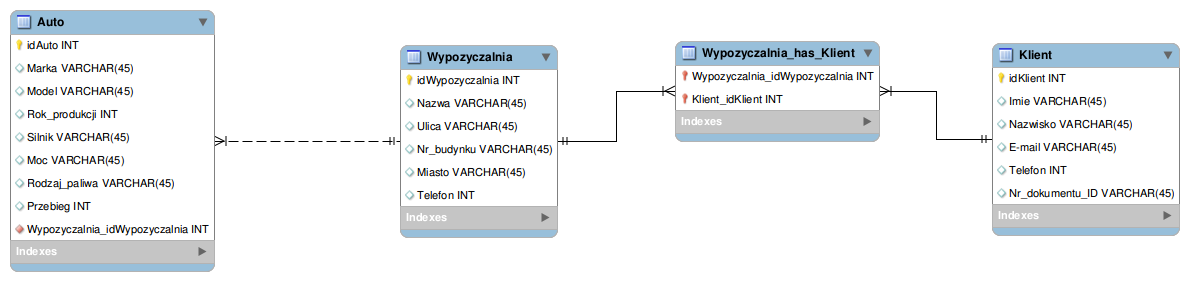
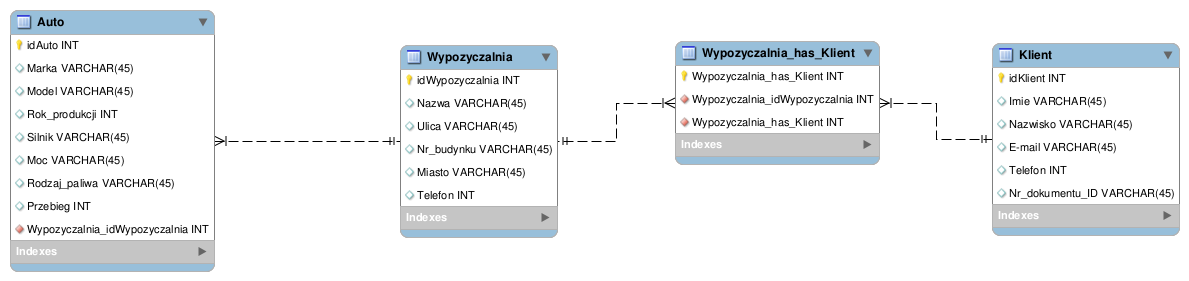
Poprawiony model i kontroler z widokami dla tabeli pośredniczącej

diff --git a/lab4/Wypozyczalnia_yii/advanced/frontend/controllers/WypozyczalniaHasKlientController.php b/lab4/Wypozyczalnia_yii/advanced/frontend/controllers/WypozyczalniaHasKlientController.php
@@ -13,6 +13,7 @@ use yii\filters\VerbFilter;
 
 use yii\helpers\ArrayHelper;
 
+
 /**
  * WypozyczalniaHasKlientController implements the CRUD actions for WypozyczalniaHasKlient model.
  */
@@ -50,14 +51,13 @@ class WypozyczalniaHasKlientController extends Controller
 
     /**
      * Displays a single WypozyczalniaHasKlient model.
-     * @param integer $idWypozyczalnia
-     * @param integer $idKlient
+     * @param integer $id
      * @return mixed
      */
-    public function actionView($idWypozyczalnia, $idKlient)
+    public function actionView($id)
     {
         return $this->render('view', [
-            'model' => $this->findModel($idWypozyczalnia, $idKlient),
+            'model' => $this->findModel($id),
         ]);
     }
 
@@ -70,7 +70,7 @@ class WypozyczalniaHasKlientController extends Controller
     {
         $model = new WypozyczalniaHasKlient();
         
-        $wypozyczalnie = Wypozyczalnia::find()
+         $wypozyczalnie = Wypozyczalnia::find()
                 ->orderBy('Nazwa')
                 ->all();
         
@@ -79,12 +79,11 @@ class WypozyczalniaHasKlientController extends Controller
                 ->all();
         
         $wypozyczalnie = ArrayHelper::map($wypozyczalnie, 'idWypozyczalnia', 'Nazwa');
-        $klienci = ArrayHelper::map($klienci, 'idKlient', 'Imie');
+        $klienci = ArrayHelper::map($klienci, 'idKlient', 'Imie', 'Nazwisko');
 
         if ($model->load(Yii::$app->request->post()) && $model->save()) {
-            return $this->redirect(['view', 'idWypozyczalnia' => $model->idWypozyczalnia, 'idKlient' => $model->idKlient]);
+            return $this->redirect(['view', 'id' => $model->idWypozyczalnia_has_klient]);
         } else {
-            
             return $this->render('create', [
                 'model' => $model,
                 'wypozyczalnie' => $wypozyczalnie,
@@ -96,13 +95,12 @@ class WypozyczalniaHasKlientController extends Controller
     /**
      * Updates an existing WypozyczalniaHasKlient model.
      * If update is successful, the browser will be redirected to the 'view' page.
-     * @param integer $idWypozyczalnia
-     * @param integer $idKlient
+     * @param integer $id
      * @return mixed
      */
-    public function actionUpdate($idWypozyczalnia, $idKlient)
+    public function actionUpdate($id)
     {
-        $model = $this->findModel($idWypozyczalnia, $idKlient);
+        $model = $this->findModel($id);
         
         $wypozyczalnie = Wypozyczalnia::find()
                 ->orderBy('Nazwa')
@@ -115,8 +113,9 @@ class WypozyczalniaHasKlientController extends Controller
         $wypozyczalnie = ArrayHelper::map($wypozyczalnie, 'idWypozyczalnia', 'Nazwa');
         $klienci = ArrayHelper::map($klienci, 'idKlient', 'Imie');
 
+
         if ($model->load(Yii::$app->request->post()) && $model->save()) {
-            return $this->redirect(['view', 'idWypozyczalnia' => $model->idWypozyczalnia, 'idKlient' => $model->idKlient]);
+            return $this->redirect(['view', 'id' => $model->idWypozyczalnia_has_klient]);
         } else {
             return $this->render('update', [
                 'model' => $model,
@@ -129,13 +128,12 @@ class WypozyczalniaHasKlientController extends Controller
     /**
      * Deletes an existing WypozyczalniaHasKlient model.
      * If deletion is successful, the browser will be redirected to the 'index' page.
-     * @param integer $idWypozyczalnia
-     * @param integer $idKlient
+     * @param integer $id
      * @return mixed
      */
-    public function actionDelete($idWypozyczalnia, $idKlient)
+    public function actionDelete($id)
     {
-        $this->findModel($idWypozyczalnia, $idKlient)->delete();
+        $this->findModel($id)->delete();
 
         return $this->redirect(['index']);
     }
@@ -143,14 +141,13 @@ class WypozyczalniaHasKlientController extends Controller
     /**
      * Finds the WypozyczalniaHasKlient model based on its primary key value.
      * If the model is not found, a 404 HTTP exception will be thrown.
-     * @param integer $idWypozyczalnia
-     * @param integer $idKlient
+     * @param integer $id
      * @return WypozyczalniaHasKlient the loaded model
      * @throws NotFoundHttpException if the model cannot be found
      */
-    protected function findModel($idWypozyczalnia, $idKlient)
+    protected function findModel($id)
     {
-        if (($model = WypozyczalniaHasKlient::findOne(['idWypozyczalnia' => $idWypozyczalnia, 'idKlient' => $idKlient])) !== null) {
+        if (($model = WypozyczalniaHasKlient::findOne($id)) !== null) {
             return $model;
         } else {
             throw new NotFoundHttpException('The requested page does not exist.');

diff --git a/lab4/Wypozyczalnia_yii/advanced/frontend/views/wypozyczalnia-has-klient/view.php b/lab4/Wypozyczalnia_yii/advanced/frontend/views/wypozyczalnia-has-klient/view.php
@@ -6,7 +6,7 @@ use yii\widgets\DetailView;
 /* @var $this yii\web\View */
 /* @var $model common\models\WypozyczalniaHasKlient */
 
-$this->title = 'Klient wypożyczalni:' ;
+$this->title = 'Klient wypożyczalni:';
 $this->params['breadcrumbs'][] = ['label' => 'Klient wypożyczalni', 'url' => ['index']];
 $this->params['breadcrumbs'][] = $this->title;
 ?>
@@ -15,8 +15,8 @@ $this->params['breadcrumbs'][] = $this->title;
     <h1><?= Html::encode($this->title) ?></h1>
 
     <p>
-        <?= Html::a('Zmień', ['update', 'idWypozyczalnia' => $model->idWypozyczalnia, 'idKlient' => $model->idKlient], ['class' => 'btn btn-primary']) ?>
-        <?= Html::a('Usuń', ['delete', 'idWypozyczalnia' => $model->idWypozyczalnia, 'idKlient' => $model->idKlient], [
+        <?= Html::a('Zmień', ['update', 'id' => $model->idWypozyczalnia_has_klient], ['class' => 'btn btn-primary']) ?>
+        <?= Html::a('Usuń', ['delete', 'id' => $model->idWypozyczalnia_has_klient], [
             'class' => 'btn btn-danger',
             'data' => [
                 'confirm' => 'Czy na pewno chcesz usunąć?',
@@ -28,6 +28,7 @@ $this->params['breadcrumbs'][] = $this->title;
     <?= DetailView::widget([
         'model' => $model,
         'attributes' => [
+            //'idWypozyczalnia_has_klient',
             'idWypozyczalnia0.Nazwa:text:Wypożyczalnia',
             'idKlient0.Imie:text:Imię', 'idKlient0.Nazwisko',
         ],

diff --git a/lab4/Wypozyczalnia_yii/advanced/frontend/views/wypozyczalnia-has-klient/update.php b/lab4/Wypozyczalnia_yii/advanced/frontend/views/wypozyczalnia-has-klient/update.php
@@ -5,9 +5,9 @@ use yii\helpers\Html;
 /* @var $this yii\web\View */
 /* @var $model common\models\WypozyczalniaHasKlient */
 
-$this->title = 'Zmień przypisanie klienta do wypożyczalni:';
+$this->title = 'Zmień przypisanie klienta do wypożyczalni';
 $this->params['breadcrumbs'][] = ['label' => 'Zmień przypisanie klienta do wypożyczalni', 'url' => ['index']];
-//$this->params['breadcrumbs'][] = ['label' => $model->idWypozyczalnia, 'url' => ['view', 'idWypozyczalnia' => $model->idWypozyczalnia, 'idKlient' => $model->idKlient]];
+//$this->params['breadcrumbs'][] = ['label' => $model->idWypozyczalnia_has_klient, 'url' => ['view', 'id' => $model->idWypozyczalnia_has_klient]];
 $this->params['breadcrumbs'][] = 'Zmień';
 ?>
 <div class="wypozyczalnia-has-klient-update">

diff --git a/lab4/Wypozyczalnia_yii/advanced/common/models/WypozyczalniaHasKlient.php b/lab4/Wypozyczalnia_yii/advanced/common/models/WypozyczalniaHasKlient.php
@@ -7,6 +7,7 @@ use Yii;
 /**
  * This is the model class for table "wypozyczalnia_has_klient".
  *
+ * @property integer $idWypozyczalnia_has_klient
  * @property integer $idWypozyczalnia
  * @property integer $idKlient
  *
@@ -42,6 +43,7 @@ class WypozyczalniaHasKlient extends \yii\db\ActiveRecord
     public function attributeLabels()
     {
         return [
+            'idWypozyczalnia_has_klient' => 'Id Wypozyczalnia Has Klient',
             'idWypozyczalnia' => 'Id Wypozyczalnia',
             'idKlient' => 'Id Klient',
         ];

diff --git a/lab4/Wypozyczalnia_yii/advanced/frontend/views/wypozyczalnia-has-klient/_form.php b/lab4/Wypozyczalnia_yii/advanced/frontend/views/wypozyczalnia-has-klient/_form.php
@@ -12,7 +12,7 @@ use yii\widgets\ActiveForm;
 
     <?php $form = ActiveForm::begin(); ?>
 
-    <?= $form->field($model, 'idWypozyczalnia')->dropDownList($wypozyczalnie)->label('Wypożyczalnia') ?>
+    <?= $form->field($model, 'idWypozyczalnia')->dropDownList($wypozyczalnie)->label('Wypożyczalnia')  ?>
 
     <?= $form->field($model, 'idKlient')->dropDownList($klienci)->label('Klient') ?>
 

diff --git a/lab4/Wypozyczalnia_yii/advanced/frontend/views/wypozyczalnia-has-klient/index.php b/lab4/Wypozyczalnia_yii/advanced/frontend/views/wypozyczalnia-has-klient/index.php
@@ -21,6 +21,7 @@ $this->params['breadcrumbs'][] = $this->title;
         'columns' => [
             ['class' => 'yii\grid\SerialColumn'],
 
+            //'idWypozyczalnia_has_klient',
             'idWypozyczalnia0.Nazwa:text:Wypożyczalnia',
             'idKlient0.Imie:text:Imię', 'idKlient0.Nazwisko',
 
